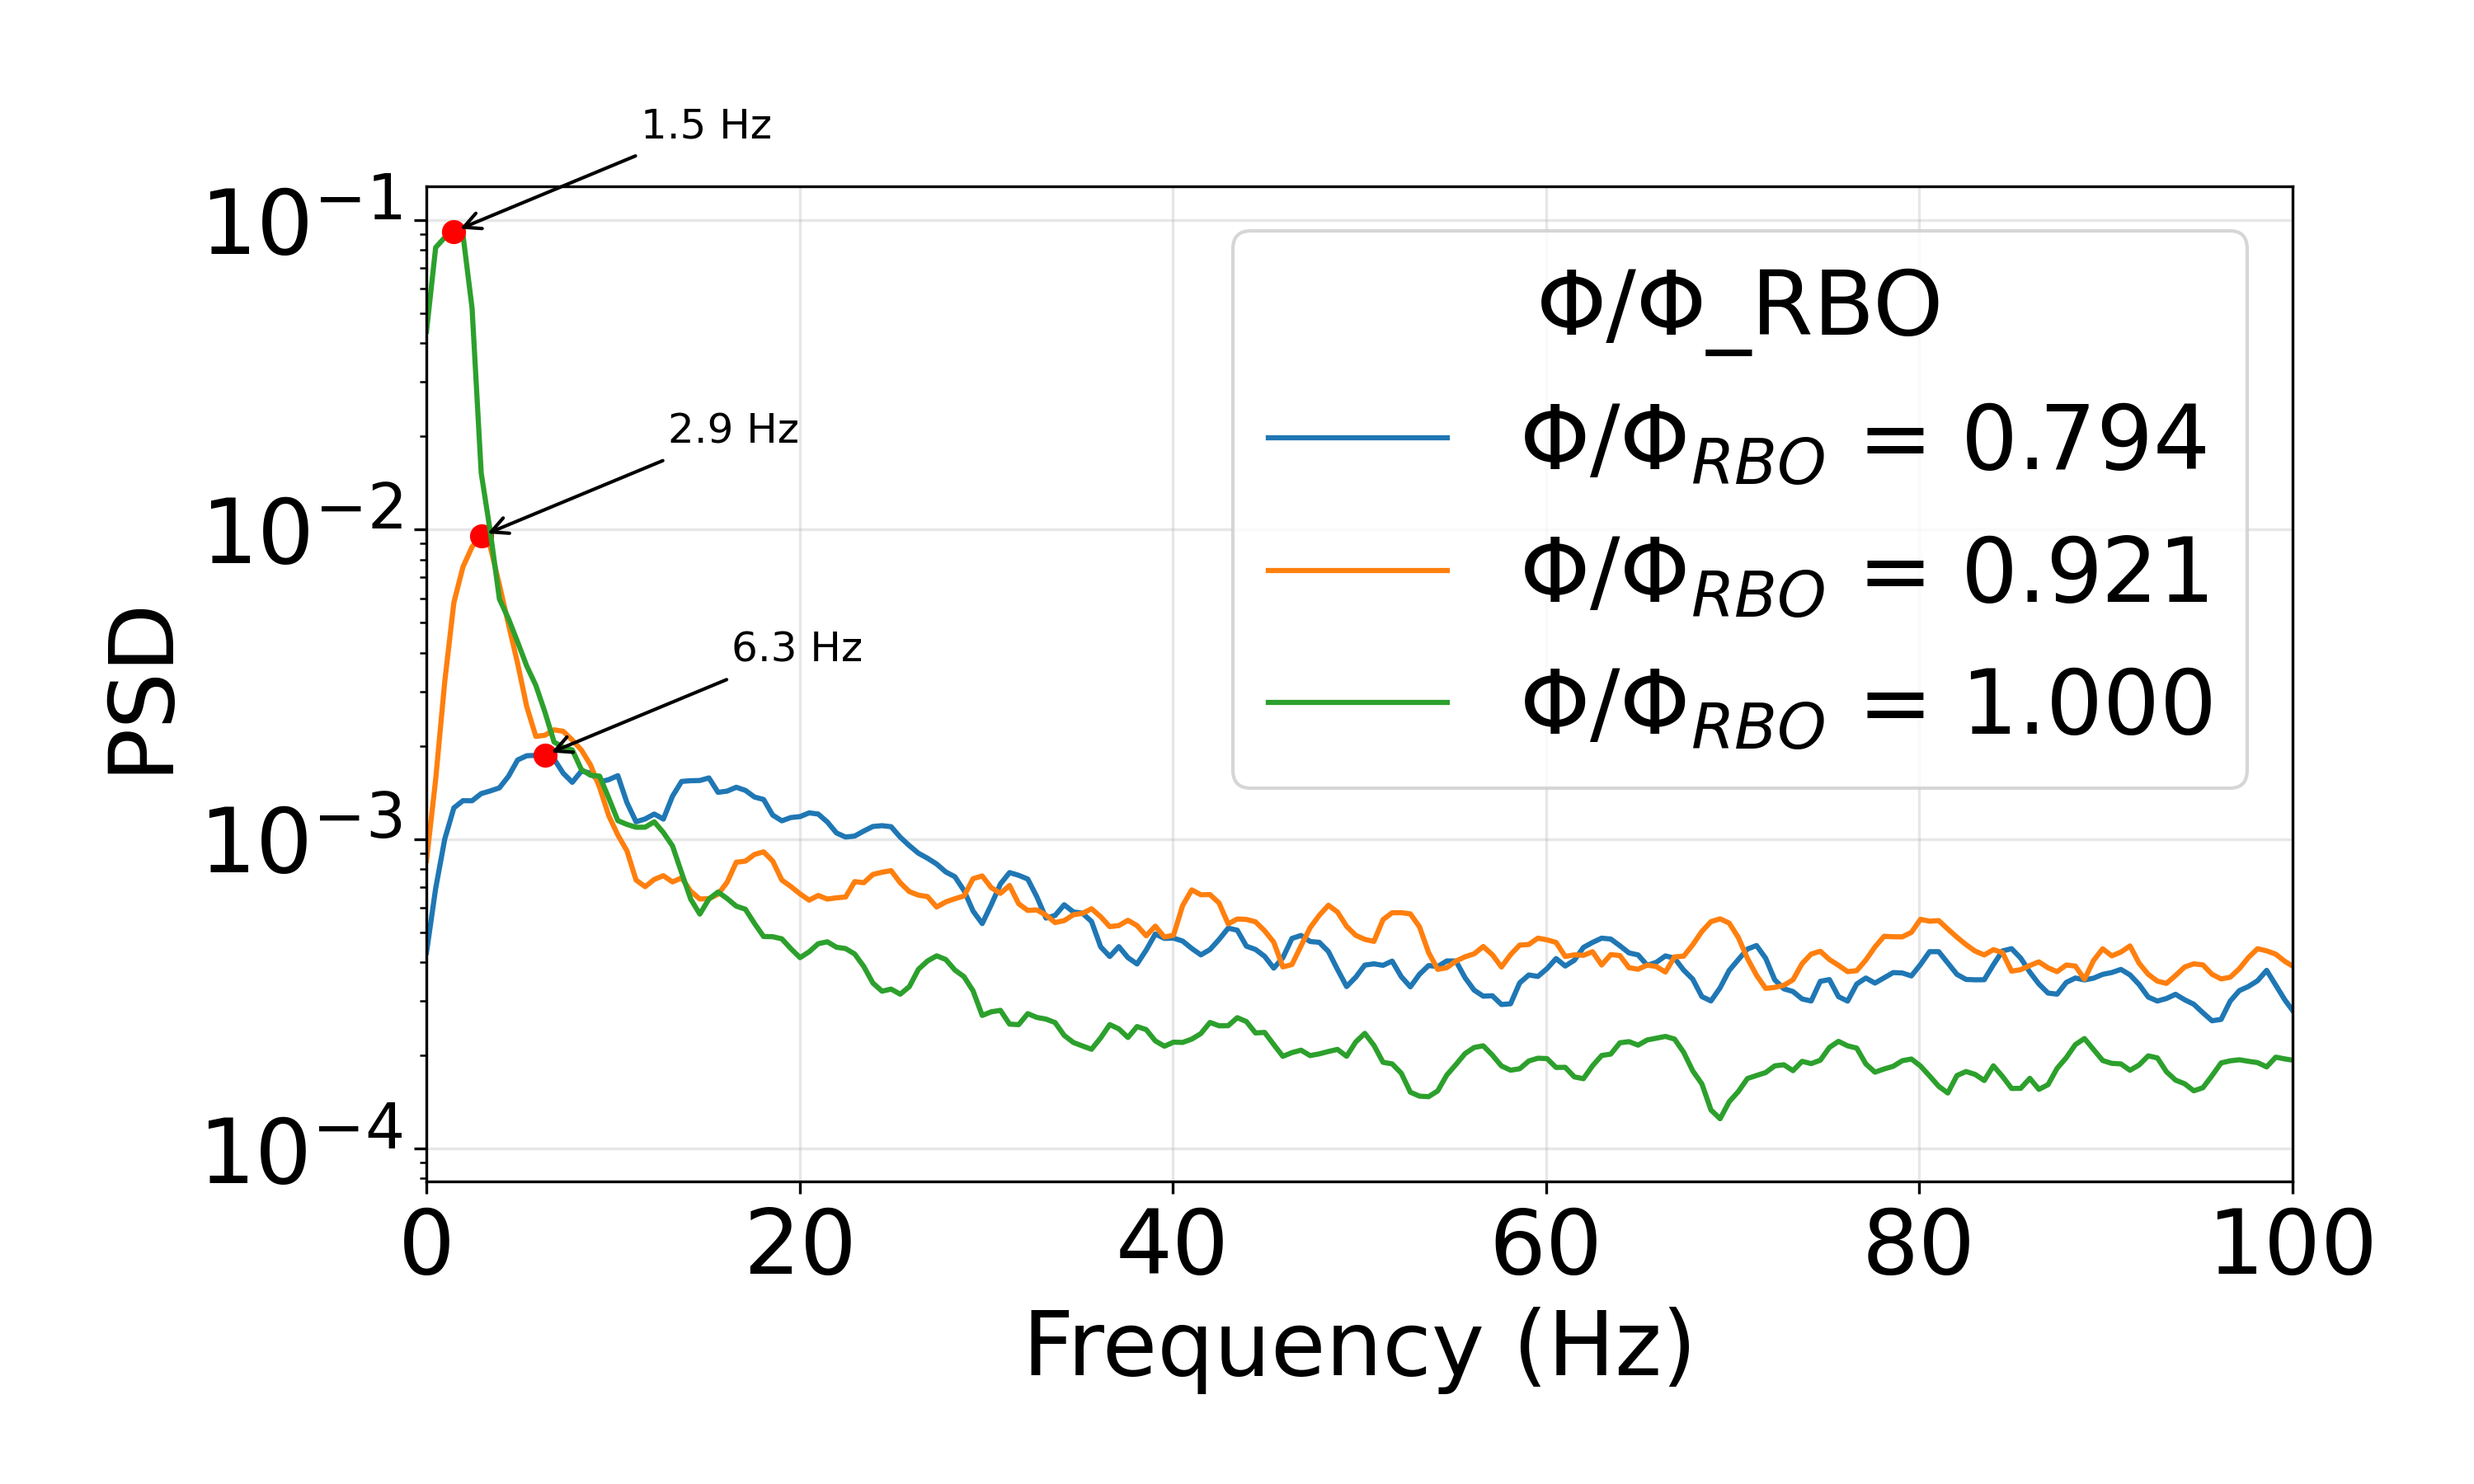
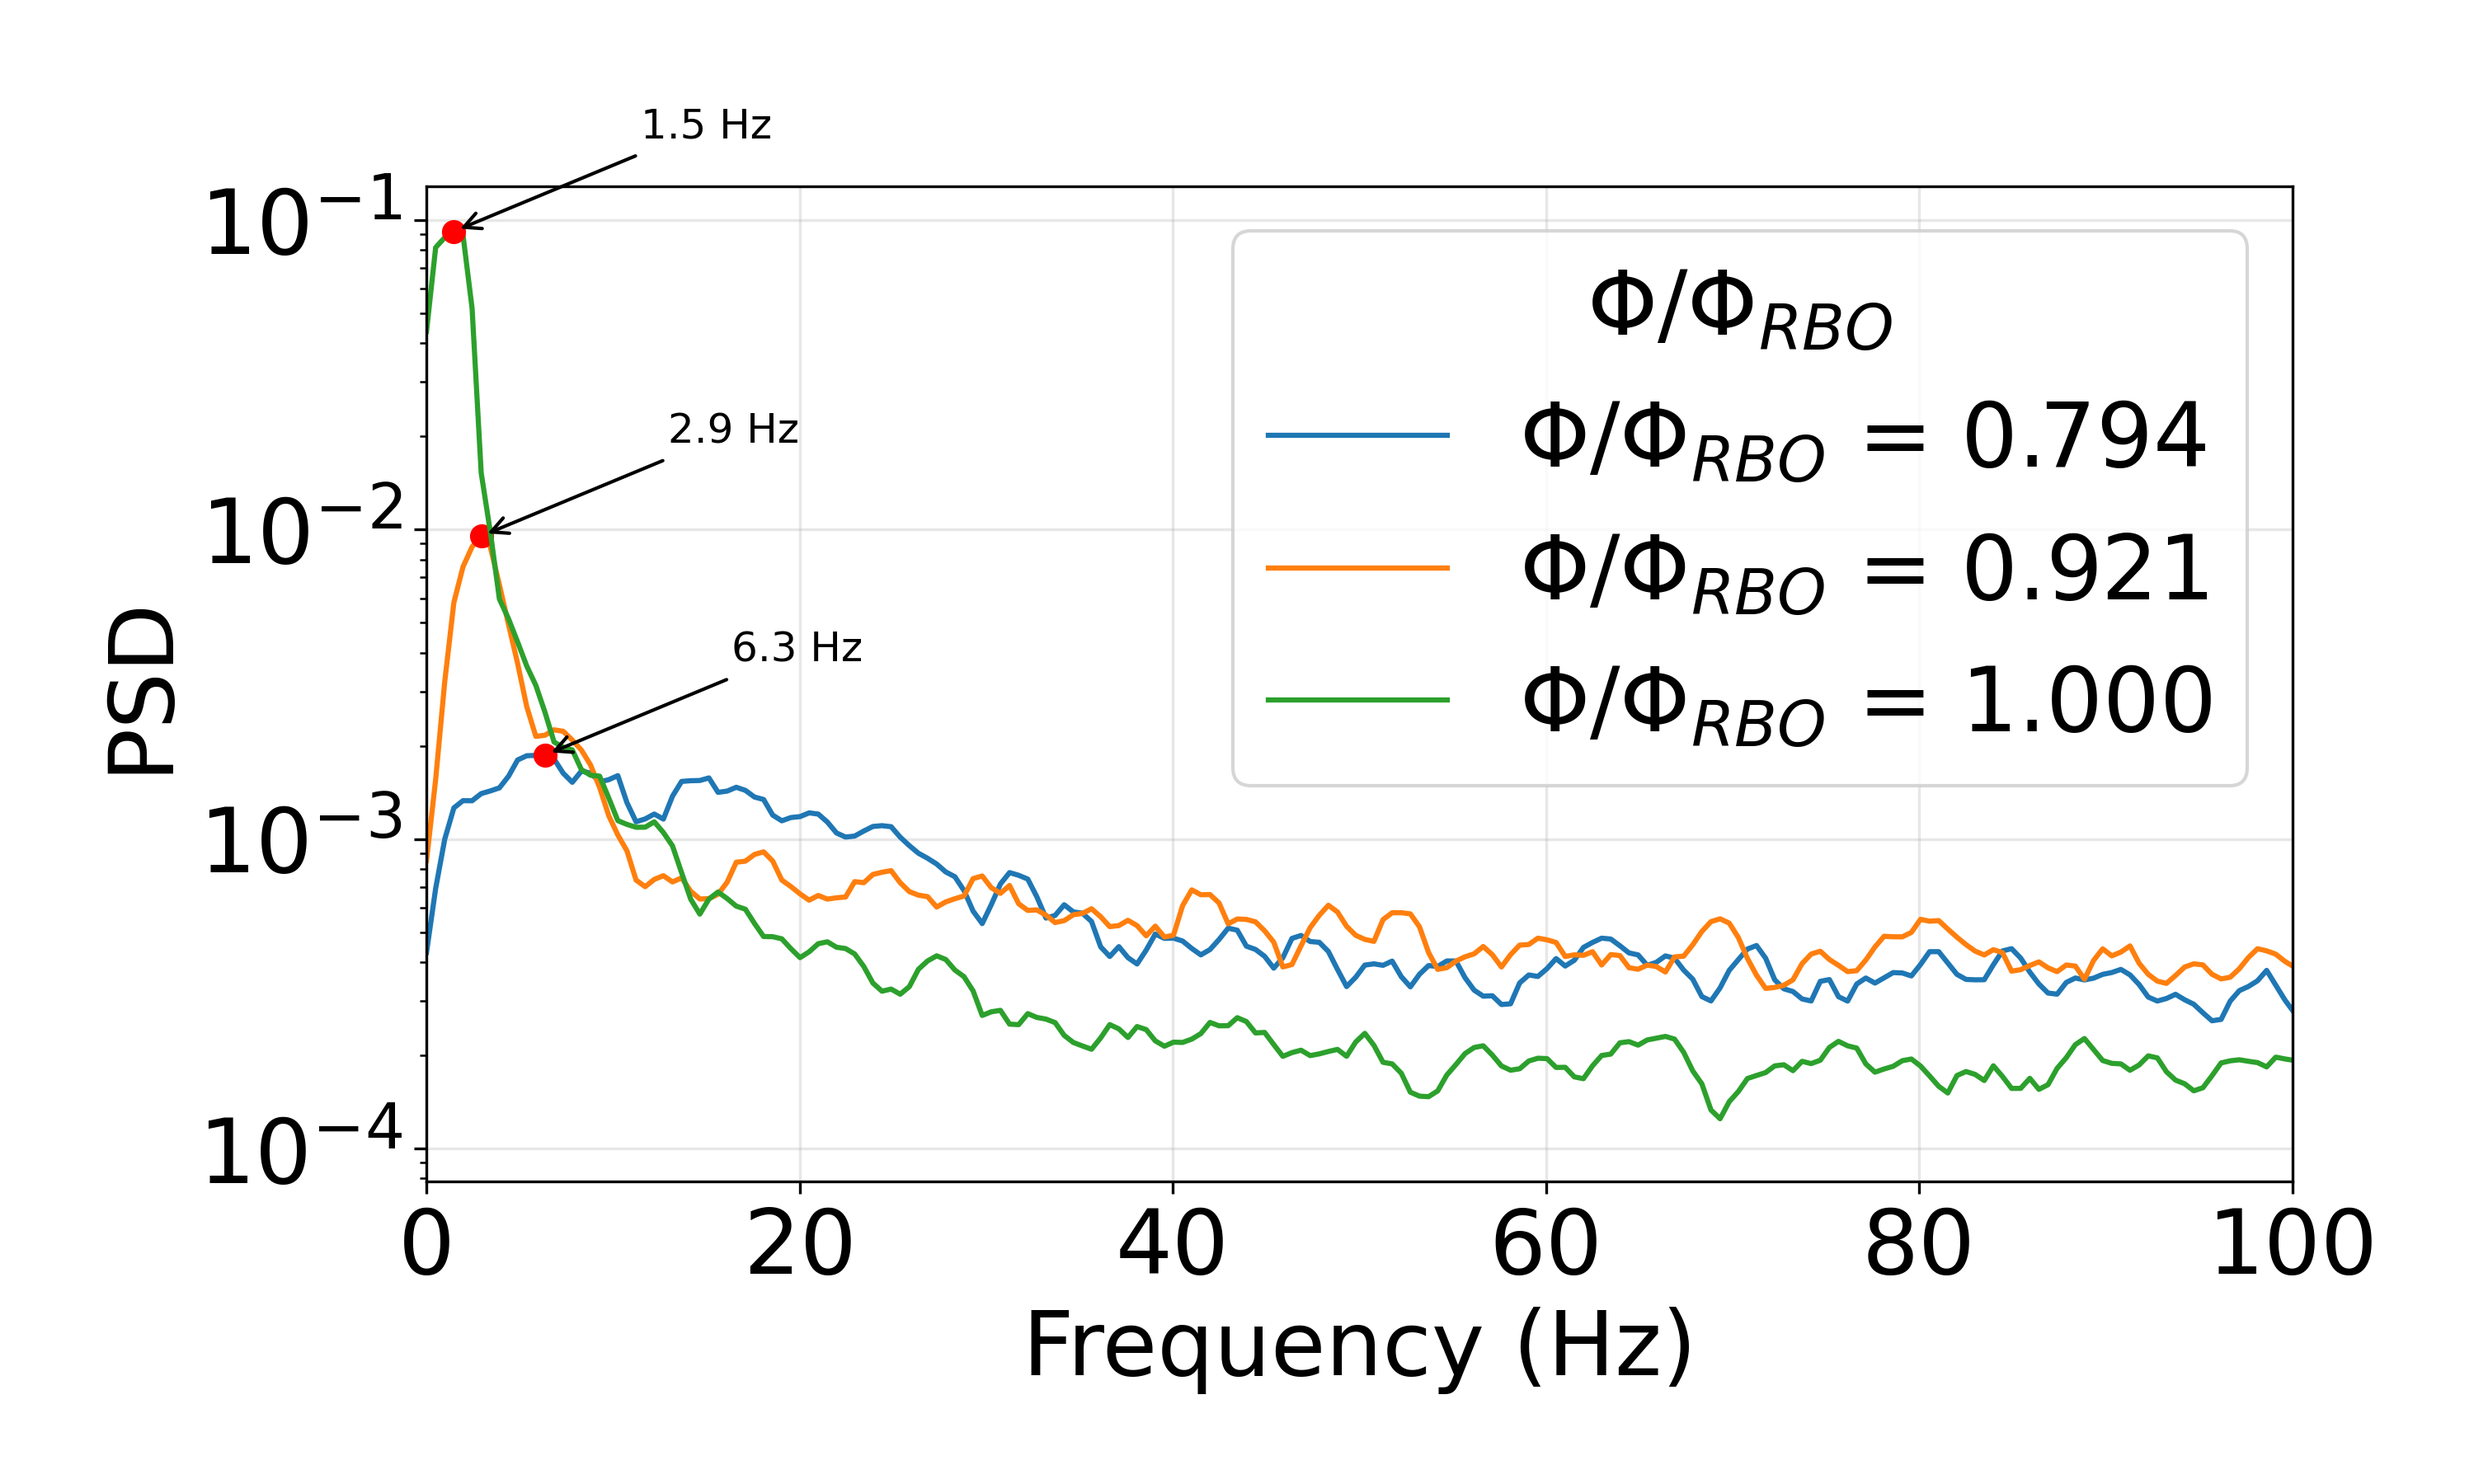
Fixed wording

diff --git a/Autorcorrelation.py b/Autorcorrelation.py
@@ -1,15 +1,13 @@
 """
-this file is to simulate autocorrelation for RBO (final corrected)
-the graph describes temporal behaviour of the signal
+Autocorrelation plot for RBO (corrected & defensible)
 
-updated based on prof feedback:
---> using short segment (2 sec)
---> correct normalization (r(0) = 1)
---> smoothing without affecting first point
---> reduced lag window for better visualization
+Fixes applied:
+- Proper normalization so r(0) = 1
+- Removed smoothing (avoids distortion of ACF)
+- Uses short segment (2 sec) for local behaviour
+- Clean and physically correct implementation
 """
 
-# imports
 import numpy as np
 import matplotlib.pyplot as plt
 import os
@@ -24,54 +22,45 @@ plot_files = ["5.0.txt", "5.8.txt", "6.3.txt"]
 plt.figure(figsize=(10, 6))
 
 for file in plot_files:
-    
+
     file_path = os.path.join(folder_path, file)
-    
+
     # load data
     data = np.loadtxt(file_path)
     time = data[:, 0]
     signal = data[:, 1]
 
-    # remove mean
-    signal = signal - np.mean(signal)
-
     # sampling frequency
     dt = time[1] - time[0]
     fs = 1 / dt
 
+    # remove mean
+    signal = signal - np.mean(signal)
+
     # use only first 2 seconds
-    signal = signal[:int(2 * fs)]
+    N = int(2 * fs)
+    signal = signal[:N]
 
     # autocorrelation
     corr = np.correlate(signal, signal, mode='full')
-    center = corr.size // 2
+    center = len(corr) // 2
+
+    # normalize → ensures r(0) = 1
+    corr = corr / corr[center]
 
     # shorter lag window (20 ms)
     max_lag = int(0.02 * fs)
-
-    rxx = corr[center:center + max_lag] / corr[center]
-
-    # smooth ONLY after first few points
-    smooth = np.copy(rxx)
-
-    # apply smoothing starting from index 2
-    smooth[2:] = np.convolve(rxx[2:], np.ones(5)/5, mode='same')
-
-    # enforce correct normalization
-    smooth[0] = 1
-    smooth[1] = rxx[1]
-
-    rxx = smooth
+    rxx = corr[center:center + max_lag]
 
     # lag axis
     lag = (np.arange(max_lag) / fs) * 1000
 
-    # normalized ratio
+    # normalized equivalence ratio
     fuel_val = float(file.replace(".txt", ""))
     phi_norm = fuel_val / phi_rbo
 
     # plot
-    plt.plot(lag, rxx, label=f"Φ/Φ_RBO = {phi_norm:.3f}")
+    plt.plot(lag, rxx, label=f"$\\Phi/\\Phi_{{RBO}}$ = {phi_norm:.3f}")
 
 # formatting
 plt.xlabel("Lag Time (ms)")
@@ -82,5 +71,5 @@ plt.grid(True, alpha=0.3)
 plt.legend()
 
 plt.tight_layout()
-plt.savefig("Figure_RBO_Autocorr_FINAL.png", dpi=300)
+plt.savefig("Figure_RBO_Autocorr_FINA1L.png", dpi=300)
 plt.show()

diff --git a/PSD.py b/PSD.py
@@ -92,7 +92,7 @@ plt.xlabel("Frequency (Hz)")
 plt.ylabel("PSD")
 plt.xlim(0, 100)   # same zoom as LBO
 plt.grid(True, alpha=0.3)
-plt.legend(title="Φ/Φ_RBO")
+plt.legend(title="$\\Phi/\\Phi_{{RBO}}$")
 
 plt.tight_layout()
 plt.savefig("Figure_2_RBO_FrequencySpectrum.png", dpi=300)
